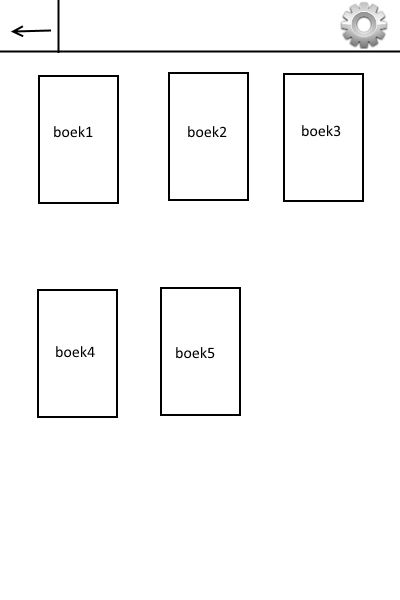
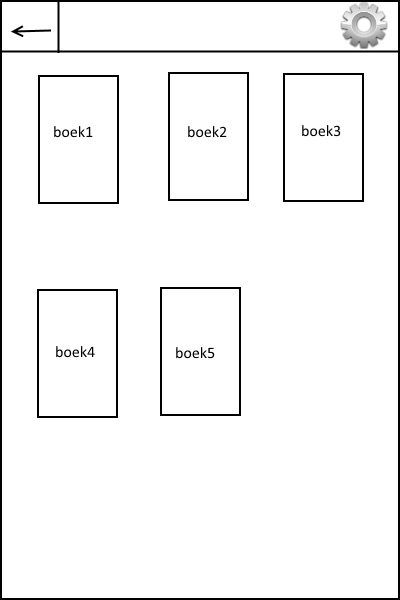
better pictures

Changed region(s): [[0.0, 0.0, 1.0, 1.0]]

diff --git a/README.md b/README.md
@@ -20,7 +20,7 @@ learn:
 solves:
 -reading on mobile. mostly slow apps exist right now
 
-![](doc/mainpage.png) ![](doc/readpage.png)
+![](doc/menupage.png) ![](doc/readpage.png)
 
 dataset and datasource:
 * source is epub file. dataset would be one very large string?
